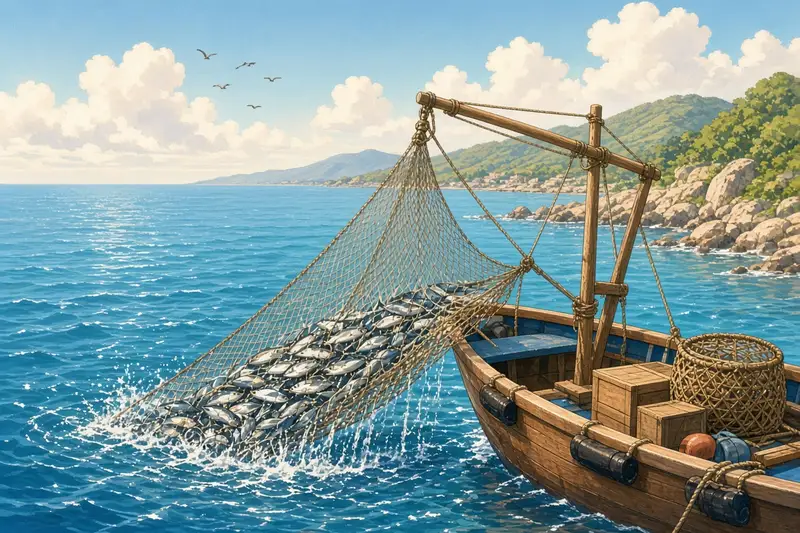
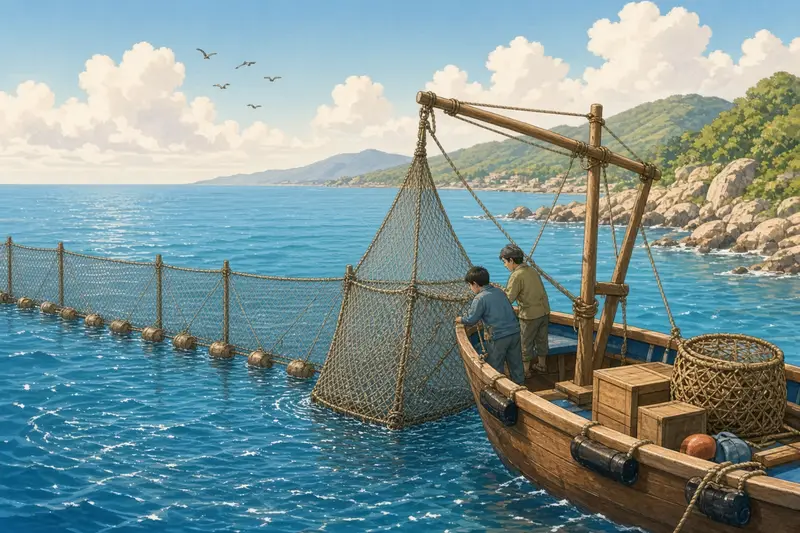
Redraw four grade-5 social studies scenes
Replace the newspaper, coastal industrial zone, bonito pole-fishing, and set-net pictures so each scene is readable at a glance. Question data is unchanged.

Changed region(s): [[0.0, 0.1501, 1.0, 1.0], [0.25, 0.0901, 0.2812, 0.1201]]

diff --git a/HAND_SOC5_PICTURES.md b/HAND_SOC5_PICTURES.md
@@ -97,3 +97,12 @@
 - `soc5_environment_033.webp`: Warm anime-style educational illustration for a Japanese elementary textbook, matching img/diagrams/soc4 and sci5: soft painterly shading, natural colors, clear scene readable at a glance, 3:2 landscape. No text, no letters, no numbers, no signs, no logos, no arrows, no speech bubbles, no watermark. People small or from behind, faces not large. Scene: sorted collected cans and plastic bottles. No logos.
 
 枚数: 85
+
+## 描き直し（grok/soc5-pictures-2）
+
+依頼: 新聞・臨海工業地帯・カツオの一本づり・定置網の4枚だけ上書き。`questions/social_g5_hand.js` の diagram は変えていない。見本は既存の `soc5_*.webp`（あたたかい教科書風のアニメ調）。横800×縦533、WebP、各100KB以下。文字・数字・看板・ロゴ・矢印・吹き出しは入れていない。
+
+- `soc5_info_009.webp`: Warm anime-style educational illustration for a Japanese elementary textbook, matching img/diagrams/soc4 and sci5: soft painterly shading, natural colors, clear scene readable at a glance, 3:2 landscape. No text, no letters, no numbers, no signs, no logos, no arrows, no speech bubbles, no watermark. People small or from behind, faces not large. Scene: morning at a Japanese house entrance. A tied bundle of folded newspapers sits on the stone step by the wooden door and mailbox. Newspaper pages are cream paper with only a faint gray hatch, no headlines or article letters. Far down the lane, a newspaper-delivery scooter rides away with a rack of folded papers.
+- `soc5_industry_014.webp`: Warm anime-style educational illustration for a Japanese elementary textbook, matching img/diagrams/soc4 and sci5: soft painterly shading, natural colors, clear scene readable at a glance, 3:2 landscape. No text, no letters, no numbers, no signs, no logos, no arrows, no speech bubbles, no watermark. People small or from behind, faces not large. Scene: only a coastal industrial port. Yellow harbor cranes, stacked containers, cargo ships at the quay, factory chimneys with light smoke, blue sea, distant green hills. No desk, books, globe, map, or window frame in the foreground.
+- `soc5_fishery_012.webp`: Warm anime-style educational illustration for a Japanese elementary textbook, matching img/diagrams/soc4 and sci5: soft painterly shading, natural colors, clear scene readable at a glance, 3:2 landscape. No text, no letters, no numbers, no signs, no logos, no arrows, no speech bubbles, no watermark. People small or from behind, faces not large. Scene: pole-and-line bonito fishing on the open deck of a fishing boat at sea, not a pier. Fishermen from behind lift skipjack tuna one by one with long poles. Several bonito hang in the air on the lines.
+- `soc5_fishery_014.webp`: Warm anime-style educational illustration for a Japanese elementary textbook, matching img/diagrams/soc4 and sci5: soft painterly shading, natural colors, clear scene readable at a glance, 3:2 landscape. No text, no letters, no numbers, no signs, no logos, no arrows, no speech bubbles, no watermark. People small or from behind, faces not large. Scene: a fixed set net near a green coast, not a purse seine or beach seine. A long leader of net with rows of floats and a bag-shaped entrance chamber stays set in the water. A small fishing boat is beside it; fishermen look into the trap. The net is not hauled full of fish onto the boat.
